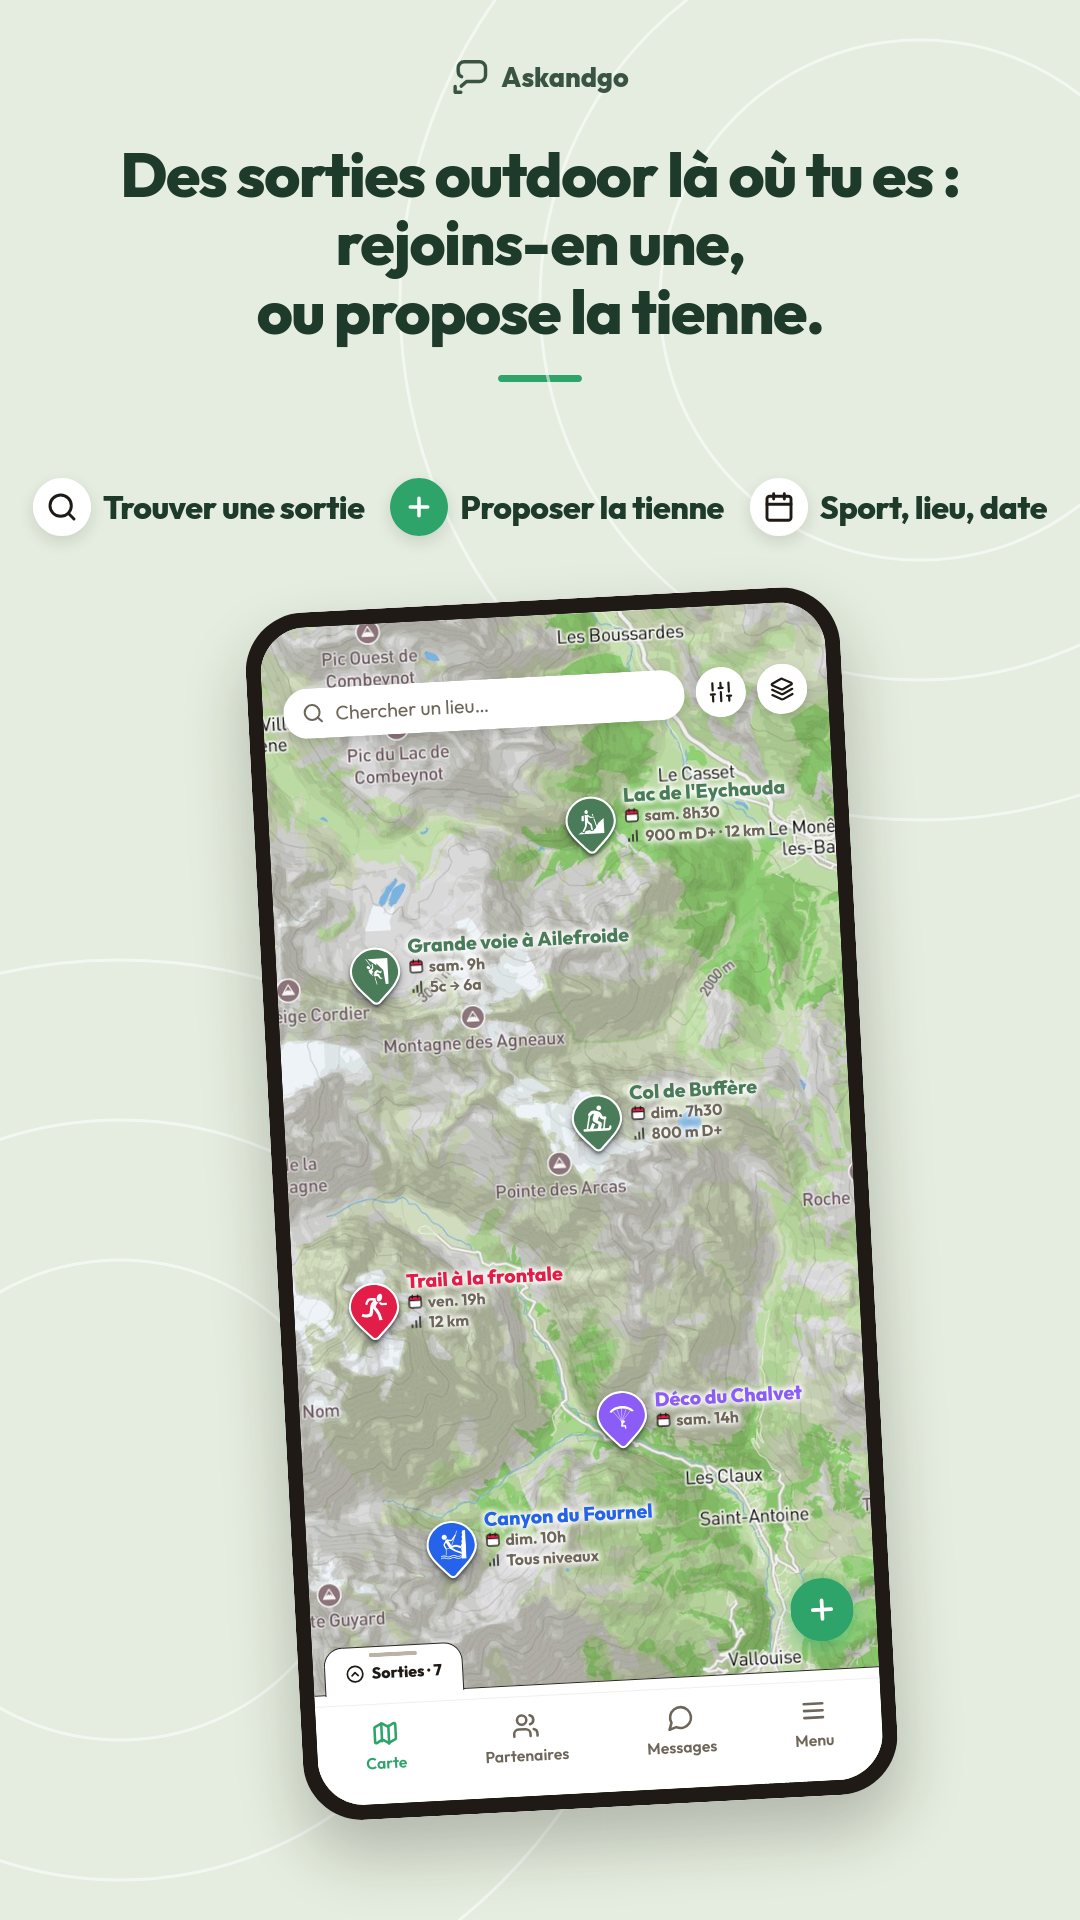
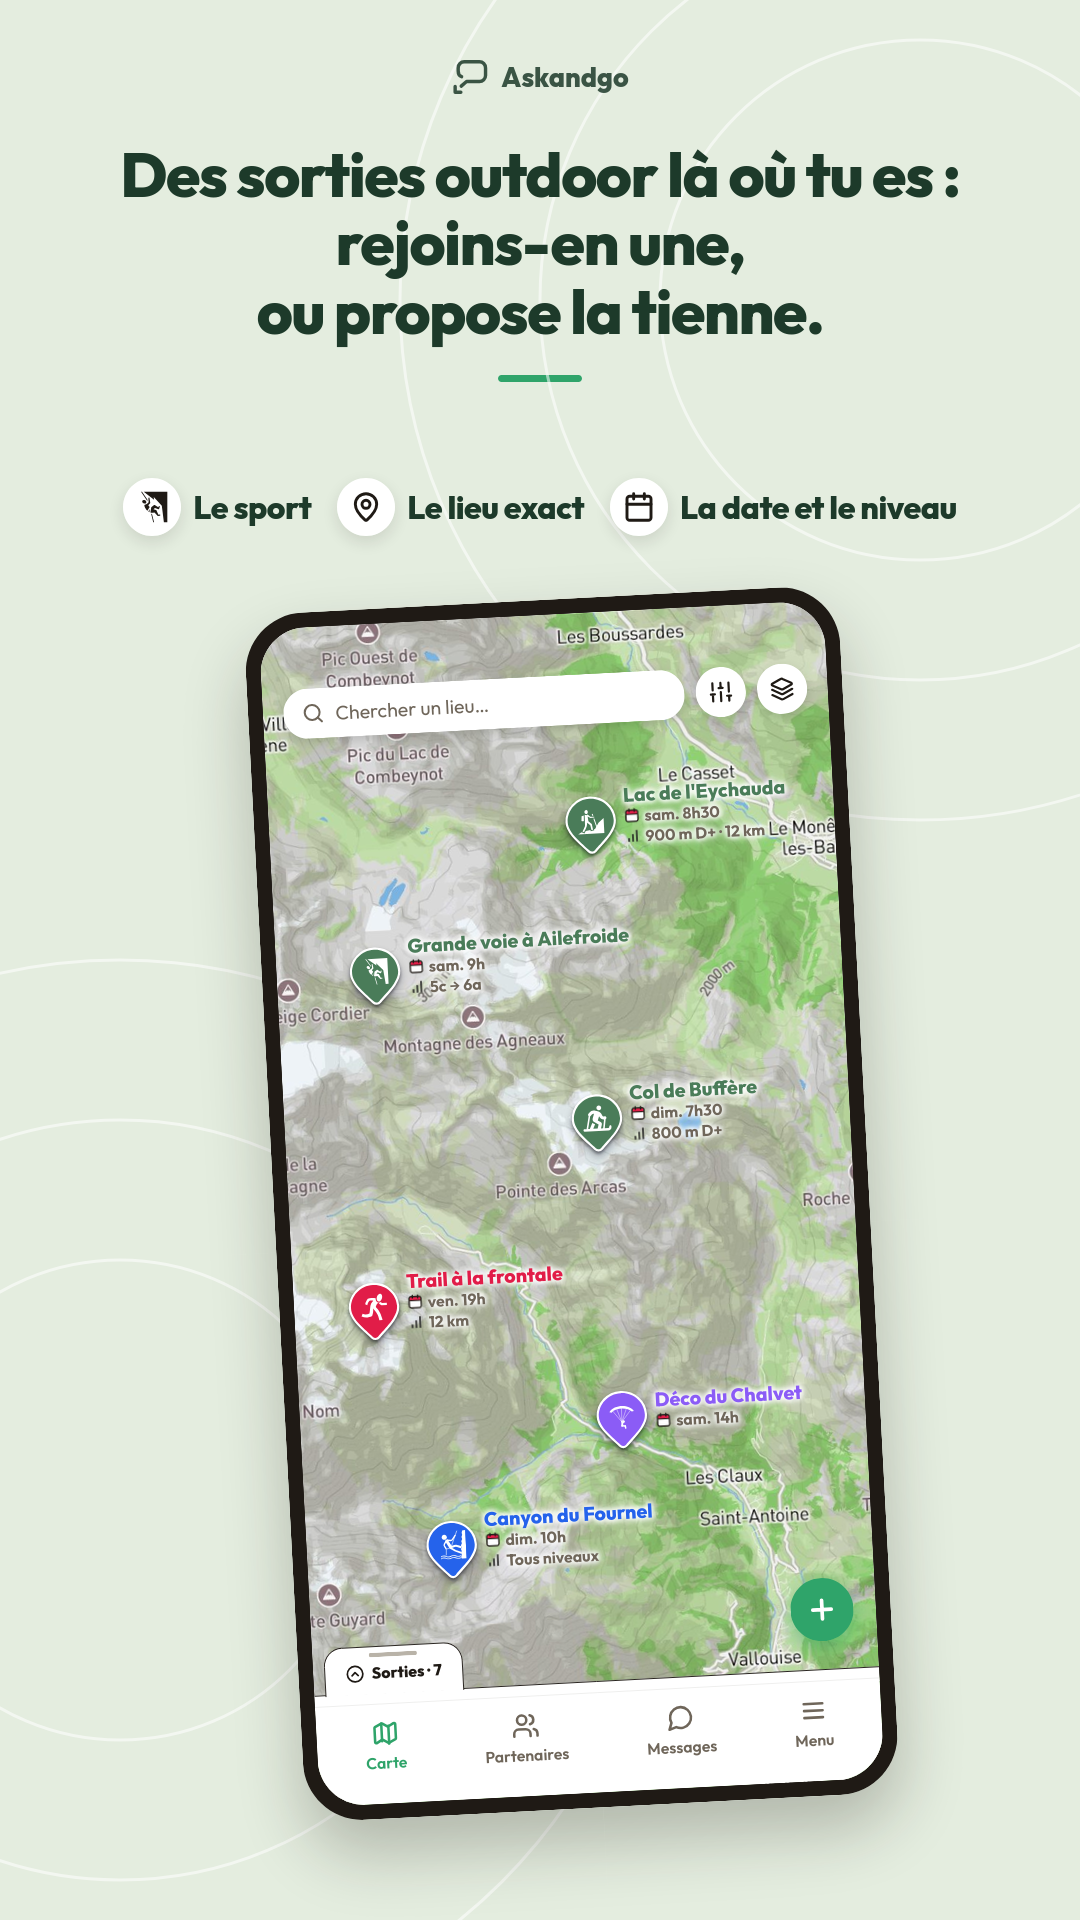
fix(play): image 1 — keyword row back to « Le sport · Le lieu exact · La date et le niveau »; only the title carries join-or-post

Changed region(s): [[0.0306, 0.25, 0.9778, 0.2812]]

diff --git a/assets/play-store/askandgo/carte1.py b/assets/play-store/askandgo/carte1.py
@@ -62,11 +62,9 @@ body = f'''<div style="position:absolute;inset:0;background:url({MAP}) center/co
 def keywords(items):
     cells = ''.join(f'<div style="display:flex;align-items:center;gap:12px"><span style="width:58px;height:58px;border-radius:50%;background:#FFF;display:inline-flex;align-items:center;justify-content:center;box-shadow:0 6px 16px rgba(31,26,21,.12)">{ic}</span><span style="font-size:32px;font-weight:800;color:{DEEP};letter-spacing:-.5px;white-space:nowrap">{w}</span></div>' for ic, w in items)
     return f'<div style="position:absolute;left:0;right:0;top:478px;display:flex;justify-content:center;gap:26px;padding:0 20px">{cells}</div>'
-# Two sides of the same screen (Scott 2026-10-27): join an outing around you, or post
-# yours for others to join — the « proposer » icon is the map's green + button.
-items = [(li('search', 32, INK), 'Trouver une sortie'),
-         (f'<span style="width:58px;height:58px;border-radius:50%;background:{GREEN};display:inline-flex;align-items:center;justify-content:center;margin:-0px">{li("plus", 30, "#FFF", 2.8)}</span>', 'Proposer la tienne'),
-         (li('cal', 32, INK), 'Sport, lieu, date')]
+# The keyword row stays about the pin (Scott 2026-10-27); the title alone carries
+# « rejoindre une sortie, ou proposer la tienne ».
+items = [(sp('climbing-sport', 34, INK), 'Le sport'), (li('pin', 32, INK), 'Le lieu exact'), (li('cal', 32, INK), 'La date et le niveau')]
 shell = screen("Des sorties outdoor là où tu es :<br>rejoins-en une,<br>ou propose la tienne.", '', '', '')
 phone = f'<div class="phone" style="left:220px;top:600px;transform:scale(.93) rotate(-3deg);box-shadow:0 36px 70px rgba(31,26,21,.26)"><div class="scr">{body}</div></div>'
 html = shell.replace('<div class="phone"><div class="scr"></div></div>', keywords(items) + phone)
